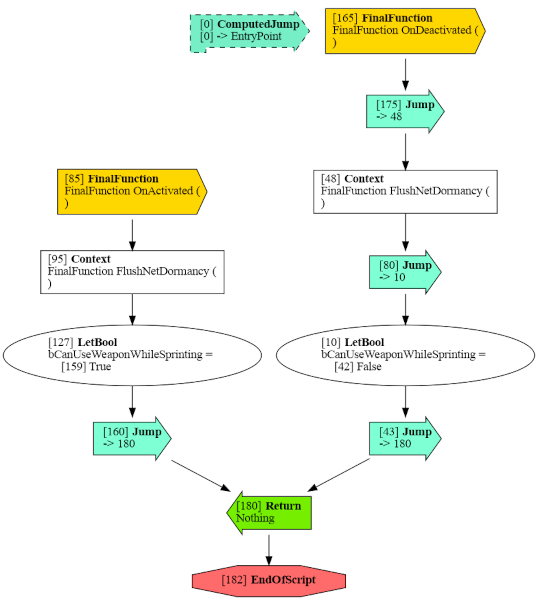
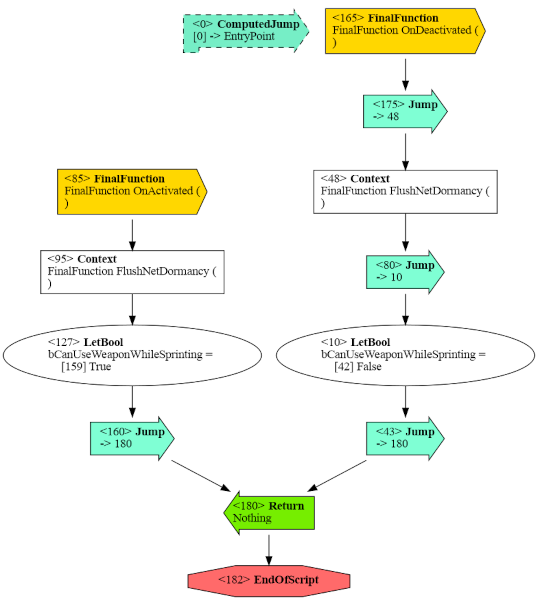
Updates to cope with build changes introduced by latest upstream merge

diff --git a/scripts/serialize-ubergraph.py b/scripts/serialize-ubergraph.py
@@ -40,11 +40,12 @@ else:
     my_dir = os.path.dirname(os.path.realpath(__file__))
     dirs_to_search = []
     dirs_to_search.append(my_dir)
-    dirs_to_search.append(os.path.realpath(os.path.join(my_dir, '..', 'UAssetAPI', 'bin', 'Debug')))
-    dirs_to_search.append(os.path.realpath(os.path.join(my_dir, '..', 'UAssetAPI', 'bin', 'Release')))
+    dirs_to_search.append(os.path.realpath(os.path.join(my_dir, '..', 'UAssetAPI', 'bin', 'Debug', 'netstandard2.0', 'publish')))
+    dirs_to_search.append(os.path.realpath(os.path.join(my_dir, '..', 'UAssetAPI', 'bin', 'Release', 'netstandard2.0', 'publish')))
 dll_found = False
 for dir_name in dirs_to_search:
     if os.path.exists(os.path.join(dir_name, 'UAssetAPI.dll')):
+        print(f'Loading UAssetAPI.dll from: {dir_name}')
         clr.AddReference(os.path.join(dir_name, 'UAssetAPI'))
         dll_found = True
         break
@@ -64,7 +65,7 @@ def get_serializations(filename):
     """
     ass = UAssetAPI.UAsset(
             path=filename,
-            engineVersion=UAssetAPI.UnrealTypes.UE4Version.VER_UE4_20,
+            engineVersion=UAssetAPI.UnrealTypes.EngineVersion.VER_UE4_20,
             )
 
     UAssetAPI.Kismet.KismetSerializer.asset = ass

diff --git a/README.md b/README.md
@@ -110,30 +110,33 @@ git clone https://github.com/atenfyr/UAssetAPI.git
 ## Compilation, Linux
 Compiling on Linux is pretty straightforward.  I did so using
 [Mono](https://www.mono-project.com/) rather than
-[dotnet](https://dotnet.microsoft.com/en-us/download).  I didn't
-want to bother with that whole "NuGet" package management system,
-so I manually downloaded the one dependency
-[Newtonsoft.Json](https://github.com/JamesNK/Newtonsoft.Json/releases)
-and put `Newtonsoft.Json.dll` right into the `UAssetAPI` dir (alongside
-`UAssetAPI.csproj`.  I then modified the Newtonsoft stanza in
-`UAssetAPI.csproj` to read:
+[dotnet](https://dotnet.microsoft.com/en-us/download).  Note that this
+project does make use of the "NuGet" package management system.  I'd
+originally resisted that a bit, but that's become more trouble than
+it's worth.
 
-```xml
-<Reference Include="Newtonsoft.Json">
-    <HintPath>Newtonsoft.Json.dll</HintPath>
-</Reference>
-```
+To restore all the NuGet dependencies at the same time as building, the
+following will build a debug version:
 
-Once that was done, the following will build a debug version:
-
-    $ msbuild /p:Configuration=Debug UAssetAPI.csproj
+    $ msbuild -r -t:Publish -p:Configuration=Debug UAssetAPI.csproj
 
 ... or for a Release version:
 
-    $ msbuild /p:Configuration=Release UAssetAPI.csproj
+    $ msbuild -r -t:Publish -p:Configuration=Release UAssetAPI.csproj
 
-That should create a `bin/Debug/UAssetAPI.dll` or
-`bin/Release/UAssetAPI.dll` for you.
+That should create a `bin/Debug/netstandard2.0/publish/UAssetAPI.dll` or
+`bin/Release/netstandard2.0/publish/UAssetAPI.dll` for you.  The `-t:Publish`
+argument is important because that's what copies `Newtonsoft.Json.dll` into
+place in the build directory.  Depending on your Mono config, you might see
+a target other than `netstandard2.0` in there.
+
+To skip the NuGet dependency steps, omit `-r`, but note that you'll have
+to restore at least once, using:
+
+    $ msbuild -t:Restore UAssetAPI.csproj
+
+I've wrapped up this functionality into a few shell scripts at the project
+root, namely `build-restore.sh`, `build-debug.sh`, and `build-release.sh`.
 
 ## Ancillary Scripts
 This fork also provides a couple of [Python](https://www.python.org) scripts
@@ -180,6 +183,7 @@ The syntax is pretty basic:
 And, as an example:
 
     $ serialize-ubergraph.py Passive_Rogue_13.u
+    Loading UAssetAPI.dll from: /home/pez/UAssetAPI-2022-11-23-01
     Wrote to: Passive_Rogue_13-ubergraph-005-ExecuteUbergraph_Passive_Rogue_13.json
     Wrote to: Passive_Rogue_13-ubergraph-006-OnActivated.json
     Wrote to: Passive_Rogue_13-ubergraph-007-OnDeactivated.json
@@ -208,9 +212,9 @@ generate:
 
 ![Bytecode Graph](https://raw.githubusercontent.com/apocalyptech/UAssetAPI/master/graph.png)
 
-The `StatementIndex` of each statement is included in brackets in front of the
+The `StatementIndex` of each statement is included in angle brackets in front of the
 bold opcode type, on the first line of each node.  From that point on, whenever
-a hotfixable bit of data is encountered, it should prefix it with the bracketed
+a hotfixable bit of data is encountered, it should prefix it with a square-bracketed
 index.  For instance, in that example graph, the only two hotfixable values are
 the `True` at index 159, and the `False` at index 42.
 
@@ -232,8 +236,8 @@ Its syntax is pretty basic:
                             Application to use to display renders
       --no-display          Don't auto-display renders
 
-By default it'll try to render the dotfile as a PNG, but you can specify `-r svg` to
-generate an SVG, or `none` to turn off rendering altogether.  If rendering an SVG or
+By default it'll try to render the dotfile as an SVG, but you can specify `-r png` to
+generate a PNG, or `none` to turn off rendering altogether.  If rendering an SVG or
 PNG, it'll also attempt to display the render immediately after generation, unless
 you specify `--no-display`.  The application used to open them can be specified with
 `-d`/`--display`, and defaults to [feh](https://feh.finalrewind.org/).
@@ -243,7 +247,7 @@ the arguments, to make tab-completions easier:
 
     $ bytecode-to-dot.py Passive_Rogue_13-ubergraph-005-ExecuteUbergraph_Passive_Rogue_13.
     Generated: Passive_Rogue_13-ubergraph-005-ExecuteUbergraph_Passive_Rogue_13.dot
-    Rendered to: Passive_Rogue_13-ubergraph-005-ExecuteUbergraph_Passive_Rogue_13.png
+    Rendered to: Passive_Rogue_13-ubergraph-005-ExecuteUbergraph_Passive_Rogue_13.svg
 
 Note that there are various opcodes which haven't really been tested, since I
 haven't yet run into them on the data I'm looking at.  You may see some messages
@@ -279,6 +283,9 @@ This changelog is basically just for this BL3/WL-specific fork.
    add an `_interpreted_guid` to the serialization, which will match the GUIDs
    seen while serializing objects with JWP, etc.
  - Default to SVG rendering in `bytecode-to-dot.py`, instead of PNG
+ - Merged in some commits from upstream (including various packaging/building
+   changes)
+ - Report on which `UAssetAPI.dll` is being used, in `serialize-ubergraph.py`
 
 **2022-11-02-01**
  - Added `--raw` option to `serialize-ubergraph.py` to save out raw on-disk
